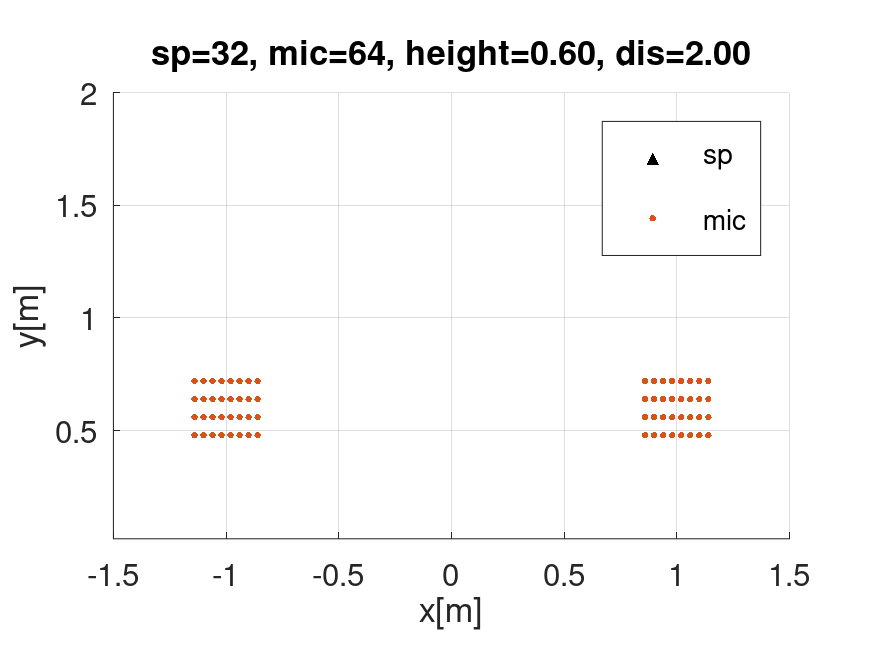
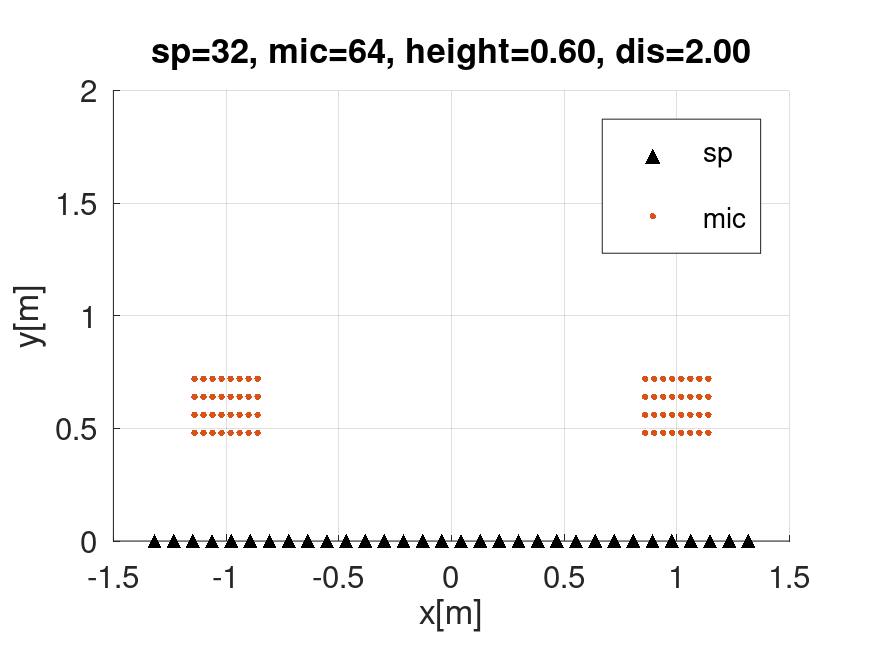
配置図スピーカー設置修繕・音圧マップスピーカーの形変更

diff --git a/pos_sp_mic.m b/pos_sp_mic.m
@@ -78,11 +78,10 @@ function [pos_sp, pos_mic, num_mic, num_bz] = pos_sp_mic(num_sp, y_center, dist_
     if pltPos
         figure % 新しいグラフウィンドウを開く
         
-        % スピーカー位置を黒い「▲」でプロット
-        h1 = scatter(pos_sp(:,1), pos_sp(:,2), 'k', '^', 'filled'); hold on;
-        % 制御点をサイズ10の「●」でプロット（デフォルト色）
+        % スピーカーとマイクの配置を散布図で描画
+        h1 = scatter(pos_sp(:,1), pos_sp(:,2), 50, 'k', '^', 'filled'); hold on;
         h2 = scatter(pos_mic(:,1), pos_mic(:,2), 10, 'filled');
-        
+
         daspect([1 1 1])    % グラフの縦横比（アスペクト比）を 1:1 に固定（空間の歪みをなくす）
         xlim([room_size(1), room_size(2)])   % x軸の表示範囲
         ylim([room_size(3), room_size(4)])        % y軸の表示範囲

diff --git a/spl_distribution.m b/spl_distribution.m
@@ -86,7 +86,7 @@ custom_cmap(c2+1:end, 3) = linspace(c_red(3), c_yellow(3), n_c-c2);
 colormap(custom_cmap);
 
 h1 = scatter(pos_target(:,1), pos_target(:,2), [], p_t_dB, 'filled'); hold on;
-h2 = scatter(pos_sp(:,1), pos_sp(:,2), 50, 'k', 'filled'); hold on;
+h2 = scatter(pos_sp(:,1), pos_sp(:,2), 10, 'k', 'LineWidth', 0.2); hold on;
 
 % ③ エリアの点線を見やすい色（シアンと白）、細い破線（LineWidth: 0.8）に変更
 h4 = plot(con_bz(:,1), con_bz(:,2), 'c--', 'LineWidth', 0.8); hold on;

diff --git a/main.m b/main.m
@@ -19,7 +19,7 @@ mthd_ctrl = "pm"; % 音場制御の手法 = PM法
 %% 空間および制御ゾーンの設定
 %% -------------------------------------------------------------------------
 % 部屋の大きさ [xの最小値, xの最大値, yの最小値, yの最大値]
-room_size = [-1.5, 1.5, 0.02, 2.0];
+room_size = [-1.5, 1.5, 0, 2.0];
 itv_room = 0.02;          % 空間全体の計算用格子点の間隔 [m]
 
 %% スピーカーとマイクの配置
